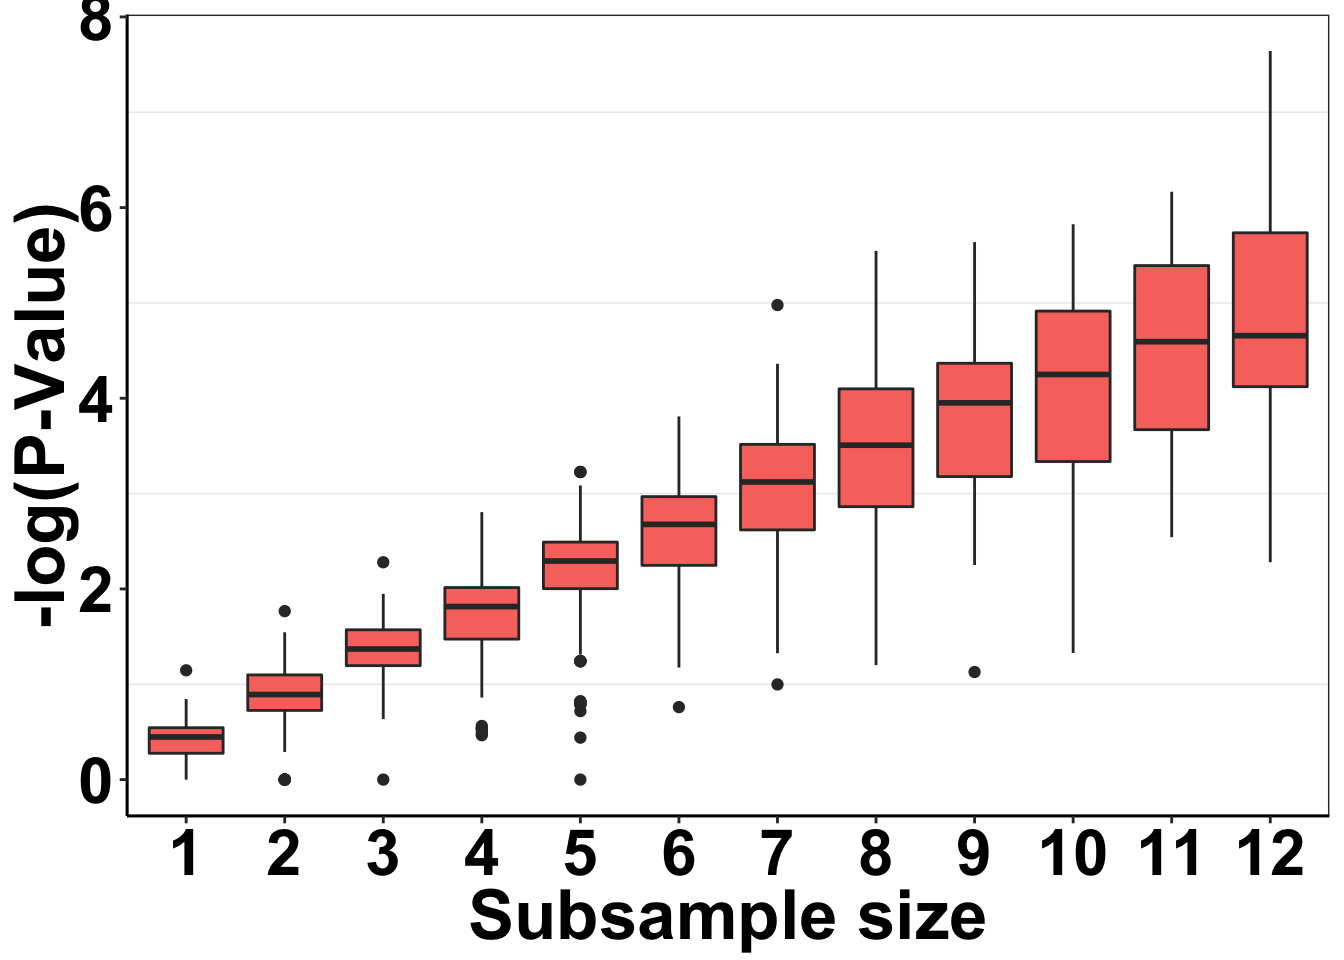
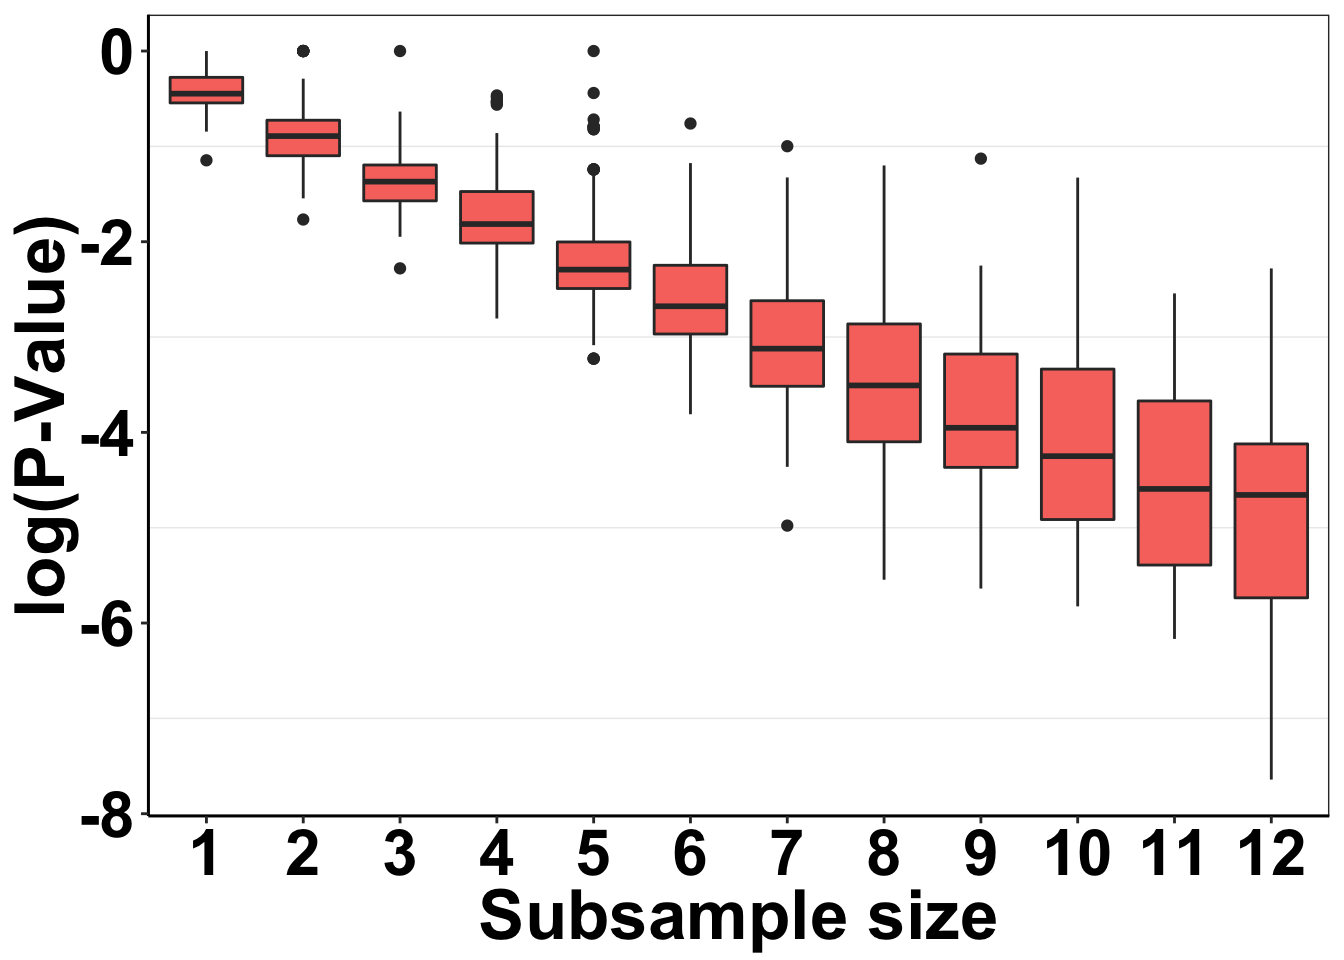
wflow_publish(all = T)

diff --git a/docs/alkati_subsampling_simulations.html b/docs/alkati_subsampling_simulations.html
@@ -12,7 +12,7 @@
 <meta name="author" content="Haider Inam" />
 
 
-<title>alkati_subsampling_simulations</title>
+<title>Subsampling Simulations for ALKATI</title>
 
 <script src="site_libs/jquery-1.11.3/jquery.min.js"></script>
 <meta name="viewport" content="width=device-width, initial-scale=1" />
@@ -412,7 +412,7 @@ div.section {
 
 
 
-<h1 class="title toc-ignore">alkati_subsampling_simulations</h1>
+<h1 class="title toc-ignore">Subsampling Simulations for ALKATI</h1>
 <h4 class="author"><em>Haider Inam</em></h4>
 <h4 class="date"><em>1/31/2019</em></h4>
 
@@ -423,8 +423,7 @@ div.section {
 <strong>workflowr checks:</strong> <small>(Click a bullet for more information)</small>
 <ul>
 <li>
-<p><details> <summary> <strong style="color:blue;">✔</strong> <strong>R Markdown file:</strong> up-to-date </summary></p>
-<p>Great! Since the R Markdown file has been committed to the Git repository, you know the exact version of the code that produced these results.</p>
+<p><details> <summary> <strong style="color:red;">✖</strong> <strong>R Markdown file:</strong> uncommitted changes </summary> The R Markdown file has unstaged changes. To know which version of the R Markdown file created these results, you’ll want to first commit it to the Git repo. If you’re still working on the analysis, you can ignore this warning. When you’re finished, you can run <code>wflow_publish</code> to commit the R Markdown file and build the HTML.</p>
 </details>
 </li>
 <li>
@@ -443,12 +442,11 @@ div.section {
 </details>
 </li>
 <li>
-<p><details> <summary> <strong style="color:blue;">✔</strong> <strong>Repository version:</strong> <a href="https://github.com/haiderinam/pair_con_select/tree/4c89be38f2e2edfe2dc709562929b98b1d9cec08" target="_blank">4c89be3</a> </summary></p>
+<p><details> <summary> <strong style="color:blue;">✔</strong> <strong>Repository version:</strong> <a href="https://github.com/haiderinam/pair_con_select/tree/5d432fbdea919055a9b7e22d43fc513adc784679" target="_blank">5d432fb</a> </summary></p>
 Great! You are using Git for version control. Tracking code development and connecting the code version to the results is critical for reproducibility. The version displayed above was the version of the Git repository at the time these results were generated. <br><br> Note that you need to be careful to ensure that all relevant files for the analysis have been committed to Git prior to generating the results (you can use <code>wflow_publish</code> or <code>wflow_git_commit</code>). workflowr only checks the R Markdown file, but you know if there are other scripts or data files that it depends on. Below is the status of the Git repository when the results were generated:
 <pre><code>
 Ignored files:
     Ignored:    .Rproj.user/
-    Ignored:    docs/figure/
 
 Untracked files:
     Untracked:  code/alldata_compiler.R
@@ -459,6 +457,9 @@ Untracked files:
     Untracked:  code/simresults_generator.R
     Untracked:  data/All_Data_V2.csv
     Untracked:  output/alkati_mtn_pval_fig2B.pdf
+
+Unstaged changes:
+    Modified:   analysis/alkati_subsampling_simulations.Rmd
 
 </code></pre>
 Note that any generated files, e.g. HTML, png, CSS, etc., are not included in this status report because it is ok for generated content to have uncommitted changes. </details>
@@ -489,6 +490,23 @@ Message
 <tbody>
 <tr>
 <td style="text-align:left;">
+html
+</td>
+<td style="text-align:left;">
+<a href="https://cdn.rawgit.com/haiderinam/pair_con_select/5d432fbdea919055a9b7e22d43fc513adc784679/docs/alkati_subsampling_simulations.html" target="_blank">5d432fb</a>
+</td>
+<td style="text-align:left;">
+haiderinam
+</td>
+<td style="text-align:left;">
+2019-02-11
+</td>
+<td style="text-align:left;">
+Build site.
+</td>
+</tr>
+<tr>
+<td style="text-align:left;">
 Rmd
 </td>
 <td style="text-align:left;">
@@ -509,7 +527,8 @@ Publish the initial files for myproject
 </ul>
 <p></details></p>
 <hr />
-<p>Just want to make quick P-value distribution plots for Figure 1C. This is a tiny bit more tricky than previously because right now, my simresults_generator does not look at a bunch of subsample sizes</p>
+<div id="p-value-distribution-plots-for-figure-1c" class="section level3">
+<h3>P-value distribution plots for Figure 1C:</h3>
 <pre class="r"><code>nsubsamples=12 # maybe this can be removed and instead calculated later.
   nsims&lt;-100 #
   #Positive control 1
@@ -533,16 +552,16 @@ simresults_comb=data.frame()
 for(subsample_number in c(1:12)){
   nsubsamples=subsample_number
   simresults=simresults_generator(alldata_comp,7)
-  simresults_comb=rbind(simresults_comb,simresults) ##ik this is not a good way to do this but whatever
+  simresults_comb=rbind(simresults_comb,simresults) ##iterative rbind this is not the most efficient way to do this
 }</code></pre>
 <pre class="r"><code>simresults_concat=simresults_comb%&gt;%
   filter(exp_num%in%c(4))
 # simresults_concat=simresults_comb
-ggplot(simresults_concat,aes(x=factor(subsample_size),y=-log10(p_val)))+
+ggplot(simresults_concat,aes(x=factor(subsample_size),y=log10(p_val)))+
   geom_boxplot(aes(fill=factor(exp_num)))+
   cleanup+
   guides(fill=F)+
-  scale_y_continuous(name=&quot;-log(P-Value)&quot;)+
+  scale_y_continuous(name=&quot;log(P-Value)&quot;)+
   scale_x_discrete(name=&quot;Subsample size&quot;)+
   # scale_color_manual(values=&quot;#E78AC3&quot;)+
   theme(plot.title = element_text(hjust=.5),
@@ -550,8 +569,40 @@ ggplot(simresults_concat,aes(x=factor(subsample_size),y=-log10(p_val)))+
       axis.title = element_text(face=&quot;bold&quot;,size=&quot;26&quot;,color=&quot;black&quot;),
       axis.text=element_text(face=&quot;bold&quot;,size=&quot;24&quot;,color=&quot;black&quot;))</code></pre>
 <p><img src="figure/alkati_subsampling_simulations.Rmd/unnamed-chunk-2-1.png" width="672" style="display: block; margin: auto;" /></p>
-<pre class="r"><code># ggsave(&quot;alkati_subsamplesize_pval_fig1c.pdf&quot;,width = 10,height = 10,units = &quot;in&quot;,useDingbats=F)</code></pre>
-<p>Doing simulations with mutations</p>
+<details> <summary><em>Expand here to see past versions of unnamed-chunk-2-1.png:</em></summary>
+<table style="border-collapse:separate; border-spacing:5px;">
+<thead>
+<tr>
+<th style="text-align:left;">
+Version
+</th>
+<th style="text-align:left;">
+Author
+</th>
+<th style="text-align:left;">
+Date
+</th>
+</tr>
+</thead>
+<tbody>
+<tr>
+<td style="text-align:left;">
+<a href="https://github.com/haiderinam/pair_con_select/blob/5d432fbdea919055a9b7e22d43fc513adc784679/docs/figure/alkati_subsampling_simulations.Rmd/unnamed-chunk-2-1.png" target="_blank">5d432fb</a>
+</td>
+<td style="text-align:left;">
+haiderinam
+</td>
+<td style="text-align:left;">
+2019-02-11
+</td>
+</tr>
+</tbody>
+</table>
+<p></details></p>
+<pre class="r"><code># ggsave(&quot;output/ alkati_subsamplesize_pval_fig1c.pdf&quot;,width = 10,height = 10,units = &quot;in&quot;,useDingbats=F)</code></pre>
+</div>
+<div id="adding-simulations-for-comparisons-with-mutations" class="section level3">
+<h3>Adding simulations for comparisons with mutations:</h3>
 <pre class="r"><code>nsubsamples=12 # maybe this can be removed and instead calculated later.
   nsims&lt;-100 #
   #Positive control 1
@@ -583,7 +634,9 @@ genex_replication_prop=alldata_compiler(alldata,nameposctrl1,nameposctrl2,namege
 simresults_nomtn$mtn=&#39;N&#39;
 
 simresults=rbind(simresults,simresults_nomtn)</code></pre>
-<p>Now doing the p-values for Figure 2b. Will show ati vs braf, ati vs nras, and mutations</p>
+</div>
+<div id="generating-the-p-value-plots-for-figure-2.-will-show-ati-vs-braf-ati-vs-nras-for-with-muts-and-without-muts" class="section level3">
+<h3>Generating the P-value plots for Figure 2. Will show ati vs braf, ati vs nras, for with-muts and without-muts</h3>
 <pre class="r"><code>simresults[simresults$exp_num==1,]$exp_name=&quot;BRAF &amp; ALKATI&quot;
 simresults[simresults$exp_num==3,]$exp_name=&quot;NRAS &amp; ALKATI&quot;
 simresults[simresults$exp_num==4,]$exp_name=&quot;BRAF &amp; NRAS&quot;
@@ -597,12 +650,12 @@ simresults_concat=simresults%&gt;%
   filter(exp_num==c(1,3,4))</code></pre>
 <pre><code>Warning in exp_num == c(1, 3, 4): longer object length is not a multiple of
 shorter object length</code></pre>
-<pre class="r"><code>ggplot(simresults_concat,aes(x=factor(exp_name),y=-log10(p_val)))+
+<pre class="r"><code>ggplot(simresults_concat,aes(x=factor(exp_name),y=log10(p_val)))+
   geom_boxplot(aes(fill=factor(exp_name)))+
   facet_wrap(~factor(mtn_tag))+
   cleanup+
   guides(fill=F)+
-  scale_y_continuous(name=&quot;-log(P-Value)&quot;)+
+  scale_y_continuous(name=&quot;log(P-Value)&quot;)+
   scale_x_discrete(name=&quot;Gene Pair&quot;)+
   scale_fill_brewer(palette = &quot;Set2&quot;,name=&quot;Gene Pair&quot;)+
   theme(plot.title = element_text(hjust=.5),
@@ -610,7 +663,38 @@ shorter object length</code></pre>
       axis.title = element_text(face=&quot;bold&quot;,size=&quot;26&quot;,color=&quot;black&quot;),
       axis.text=element_text(face=&quot;bold&quot;,size=&quot;20&quot;,color=&quot;black&quot;))</code></pre>
 <p><img src="figure/alkati_subsampling_simulations.Rmd/unnamed-chunk-4-1.png" width="672" style="display: block; margin: auto;" /></p>
+<details> <summary><em>Expand here to see past versions of unnamed-chunk-4-1.png:</em></summary>
+<table style="border-collapse:separate; border-spacing:5px;">
+<thead>
+<tr>
+<th style="text-align:left;">
+Version
+</th>
+<th style="text-align:left;">
+Author
+</th>
+<th style="text-align:left;">
+Date
+</th>
+</tr>
+</thead>
+<tbody>
+<tr>
+<td style="text-align:left;">
+<a href="https://github.com/haiderinam/pair_con_select/blob/5d432fbdea919055a9b7e22d43fc513adc784679/docs/figure/alkati_subsampling_simulations.Rmd/unnamed-chunk-4-1.png" target="_blank">5d432fb</a>
+</td>
+<td style="text-align:left;">
+haiderinam
+</td>
+<td style="text-align:left;">
+2019-02-11
+</td>
+</tr>
+</tbody>
+</table>
+<p></details></p>
 <pre class="r"><code>ggsave(&quot;output/alkati_mtn_pval_fig2B.pdf&quot;,width = 16,height = 10,units = &quot;in&quot;,useDingbats=F)</code></pre>
+</div>
 <div id="session-information" class="section level2">
 <h2>Session information</h2>
 <pre class="r"><code>sessionInfo()</code></pre>
